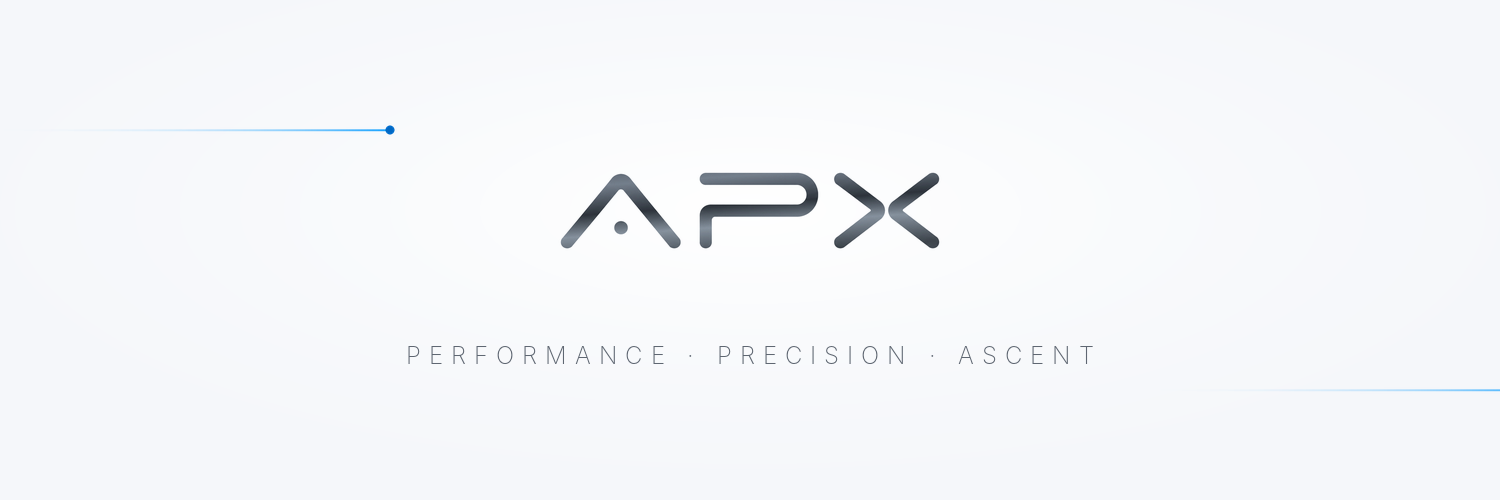
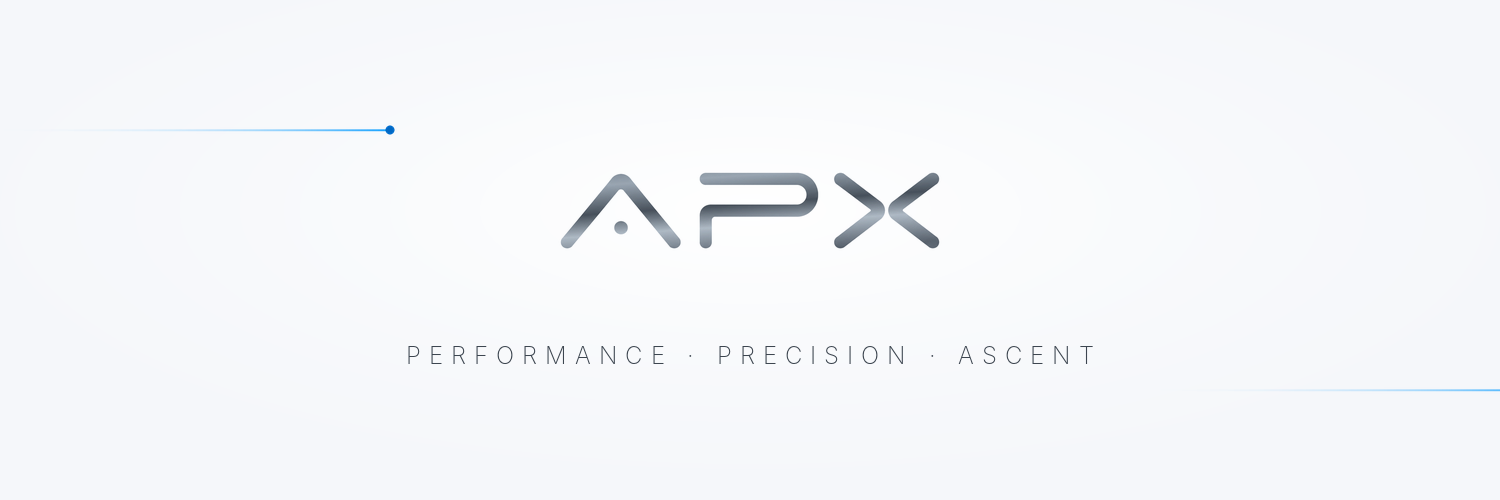
Lighten the wordmark to brushed silver, raise text contrast
The wordmark fill was sitting close to ink rather than metal. Lifting the
gradient roughly doubles its mean luminance (0.140 -> 0.267 relative), so
it reads as polished silver, while the shaded bands stay deep enough to
keep definition -- the darkest band is still 9.1:1 against the canvas.

Text gains contrast at the same time:
- tagline  #5F6772 -> #3D4650   5.3:1 -> 8.9:1
- title    #10151B -> #0A0E13  17.1:1 -> 18.0:1
- tagline weight 200 -> 300; ultralight was genuinely faint on white.

The brand kit's `graphite` is regenerated from the same values. It is
documented as matching the website wordmark, so leaving it at the old
darker mix would have made that claim false. The light social cards pick
up the new text contrast too. Kit filenames and structure are unchanged.

Changed region(s): [[0.368, 0.33, 0.644, 0.51]]

diff --git a/index.html b/index.html
@@ -43,9 +43,9 @@
     :root {
       --bg: #f5f7fa;          /* bright off-white canvas */
       --bg-sheen: #ffffff;    /* pure white bloom in the centre */
-      --ink: #10151b;         /* near-black for headings */
-      --muted: #5f6772;
-      --dim: #98a2ae;
+      --ink: #0a0e13;         /* near-black for headings */
+      --muted: #3d4650;       /* body/tagline — deliberately high contrast */
+      --dim: #8b96a3;
       --accent: #0099ff;      /* brand blue — used for glows/fills */
       --accent-ink: #0068c4;  /* deeper blue that holds contrast on white */
       --accent-glow: rgba(0, 153, 255, 0.30);
@@ -132,17 +132,18 @@
          with a brushed-metal gradient instead of flat white. */
       -webkit-mask: url("/assets/apx-logo.png") center / contain no-repeat;
               mask: url("/assets/apx-logo.png") center / contain no-repeat;
-      /* Brushed graphite: alternating polished and shaded bands, dark
-         enough to read crisply against the off-white canvas. */
+      /* Brushed silver: lifted well above graphite so it reads as polished
+         metal rather than dark ink, while the shaded bands stay deep enough
+         to hold definition against the off-white canvas. */
       background: linear-gradient(
         176deg,
-        #8f9aa8 0%,
-        #39424c 14%,
-        #6b7684 30%,
-        #1f262e 46%,
-        #7e8a97 58%,
-        #2f373f 74%,
-        #5c6674 100%
+        #b9c4d1 0%,
+        #59646f 14%,
+        #93a0ad 30%,
+        #3b4550 46%,
+        #a9b5c1 58%,
+        #4d5763 74%,
+        #808c99 100%
       );
       overflow: hidden;
     }
@@ -208,7 +209,7 @@
     .tagline {
       margin-top: 1.5rem;
       font-size: clamp(0.7rem, 1.8vw, 0.8rem);
-      font-weight: 200;
+      font-weight: 300;
       letter-spacing: 0.25em;
       color: var(--muted);
       text-transform: uppercase;

diff --git a/media/README.md b/media/README.md
@@ -13,7 +13,7 @@ and blue backgrounds, plus ready-made app icons and social sizes.
 | Accent Blue  | `#0099FF`  | Brand accent, links, highlights      |
 | Off-white    | `#F5F7FA`  | Light background (matches the website)|
 | Metallic     | silver gradient (`#FFFFFF → #767676 → #ECECEC`) | Hero / premium — **dark backgrounds only** |
-| Graphite     | graphite gradient (`#8F9AA8 → #1F262E → #5C6674`) | Hero / premium — **light backgrounds** |
+| Graphite     | brushed silver gradient (`#B9C4D1 → #3B4550 → #808C99`) | Hero / premium — **light backgrounds** |
 | Blue-steel   | blue gradient (`#DFF2FF → #0099FF → #006EBE`)   | Alternate accent lockups |
 
 **Metallic and graphite are a pair.** Metallic is a bright silver, so it
